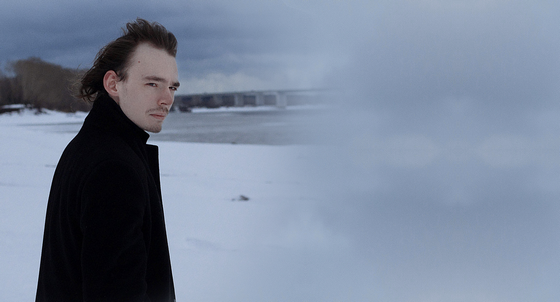
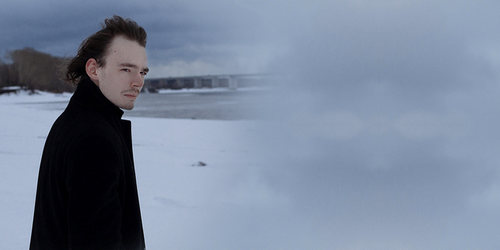
Meta update

diff --git a/index.html b/index.html
@@ -24,6 +24,8 @@
     <meta property="og:description" content="Coding. Linguistics. Texts." />
     <meta property="og:site_name" content="mforv"/>
     <meta property="og:image" content="https://mforv.github.io/img/feature_1.png" />
+    <meta property="og:image:width" content="500"/>
+    <meta property="og:image:height" content = "250"/>
     <meta name="twitter:card" content="summary_large_image">
     <meta name="twitter:site" content="@mforv">
     <meta name="twitter:title" content="[mforv]">
